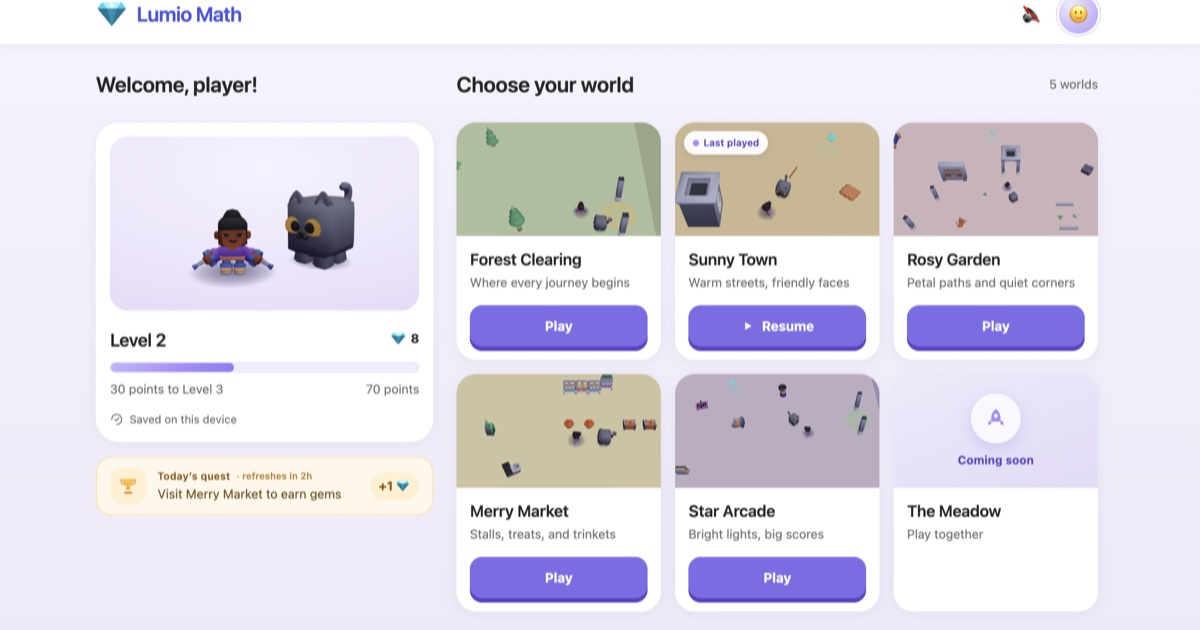
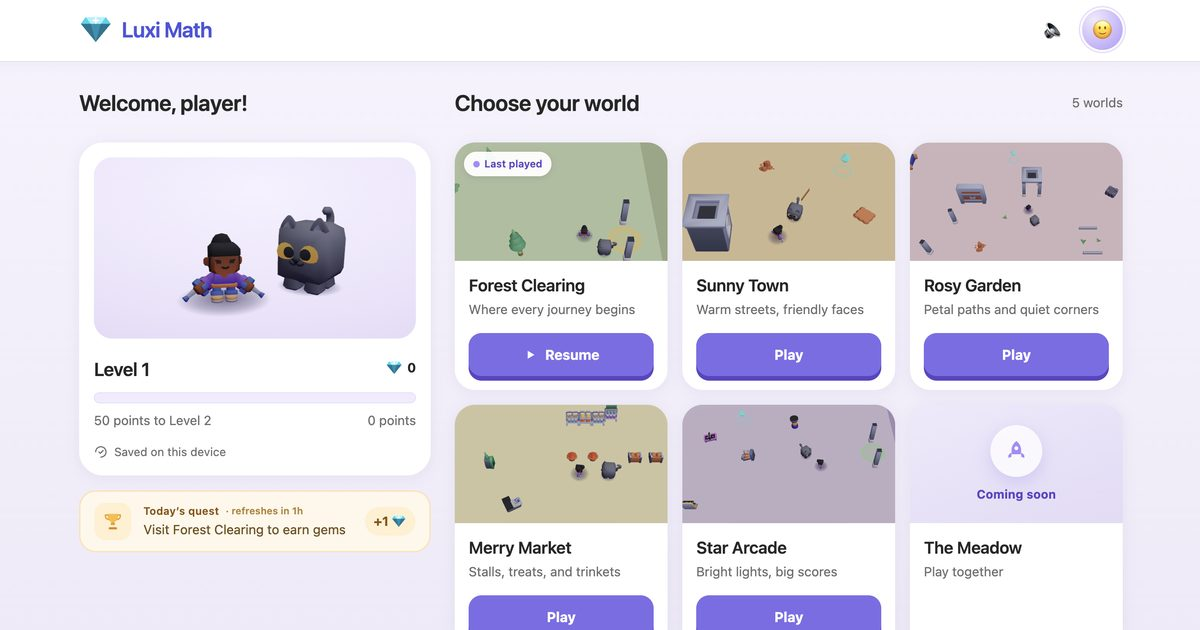
rebrand: "Lumio Math" -> "Luxi Math" (trademark collision on "Lumio")
Amy + Finn found "Lumio" is trademarked, caught before the IG marketing push.
Changed only the VISIBLE product name, everywhere it appears:
- index.html <title> + Open Graph/Twitter meta (the SEO/social name Google + IG show)
- the Door wordmark (src/ui/Door.jsx) + a couple of Door/HeroStage comments
- the old-Pages redirect page copy (deploy.yml) + the robots.txt header
- public/og.jpg re-made from the renamed door (Amy's screenshot; top-anchored
  1200x630 crop so the "Luxi Math" logo stays in frame)

Deliberately NOT changed (Amy's call this session):
- the domain lumio.land / math.lumio.land STAYS for now; a domain migration is a
  separate, staged decision (checked luxi availability, redirect, magic-link, etc.)
- the internal localStorage key 'lumio.account' is untouched -- it's invisible,
  and renaming it would make already-signed-in devices (Ivy's iPad) forget they
  signed in, re-breaking today's magic-link fix (3cce96f).

Follow-up: re-request indexing in Google Search Console so the result title
refreshes Lumio -> Luxi (domain unchanged, so the property is the same).

diff --git a/index.html b/index.html
@@ -5,7 +5,7 @@
     <meta name="viewport" content="width=device-width, initial-scale=1.0, maximum-scale=1.0, user-scalable=no, viewport-fit=cover" />
     <link rel="icon" type="image/svg+xml" href="/favicon.svg" />
 
-    <title>Lumio Math</title>
+    <title>Luxi Math</title>
     <meta
       name="description"
       content="Explore five worlds with your companion, solve math to earn gems, and spend them to build a world of your own."
@@ -13,10 +13,10 @@
 
     <!-- Open Graph — the link-preview card on IG / messaging / social. og:image
          MUST be an absolute URL; scrapers don't resolve relative paths. The
-         image (public/og.jpg) is a 1200x630 crop of the Lumio Math door. -->
+         image (public/og.jpg) is a 1200x630 crop of the Luxi Math door. -->
     <meta property="og:type" content="website" />
-    <meta property="og:site_name" content="Lumio Math" />
-    <meta property="og:title" content="Lumio Math" />
+    <meta property="og:site_name" content="Luxi Math" />
+    <meta property="og:title" content="Luxi Math" />
     <meta
       property="og:description"
       content="Explore five worlds with your companion, solve math to earn gems, and spend them to build a world of your own."
@@ -27,12 +27,12 @@
     <meta property="og:image:height" content="630" />
     <meta
       property="og:image:alt"
-      content="Lumio Math — a character and cat beside a menu of five colorful worlds to explore."
+      content="Luxi Math — a character and cat beside a menu of five colorful worlds to explore."
     />
 
     <!-- Large-image card for X and other scrapers that read twitter:* tags. -->
     <meta name="twitter:card" content="summary_large_image" />
-    <meta name="twitter:title" content="Lumio Math" />
+    <meta name="twitter:title" content="Luxi Math" />
     <meta
       name="twitter:description"
       content="Explore five worlds with your companion, solve math to earn gems, and spend them to build a world of your own."

diff --git a/src/ui/Door.jsx b/src/ui/Door.jsx
@@ -1,5 +1,5 @@
 /*
- * Door.jsx — the hub a player lands on before a world (Lumio Math).
+ * Door.jsx — the hub a player lands on before a world (Luxi Math).
  * Lifted 1:1 from Oscar's `math-door-flow.html` (delivery — math door, 2026-07-31),
  * drawn to Nathan's door-data-contract. Left = who they are + how far they've
  * climbed; right = Choose your world.
@@ -245,7 +245,7 @@ function Header({ sound, setSound }) {
   return (
     <header className="doorHdr">
       <div className="doorHdrIn">
-        <div style={hS.brand}><span style={hS.mark}><GemIcon size={36} /></span><span style={hS.word}>Lumio Math</span></div>
+        <div style={hS.brand}><span style={hS.mark}><GemIcon size={36} /></span><span style={hS.word}>Luxi Math</span></div>
         <div style={hS.right}>
           <button style={hS.round} onClick={() => setSound(!sound)} title={sound ? 'Sound on' : 'Sound off'} aria-label="Toggle sound">{sound ? '🔈' : '🔇'}</button>
           {/* Profile — the affordance settings lives inside later; soft avatar for now */}

diff --git a/src/ui/HeroStage.jsx b/src/ui/HeroStage.jsx
@@ -6,7 +6,7 @@
  * ONE build for everyone (Amy, 2026-07-31): this is always character-female-a +
  * animal-cat — the game's default avatar — not a per-account render. When a real
  * avatar picker lands, this reads the chosen ids; until then it's the one face of
- * Lumio Math. Models + animations are the SAME assets the world uses (already
+ * Luxi Math. Models + animations are the SAME assets the world uses (already
  * preloaded there), so it paints instantly and can never drift from in-game.
  */
 import { Suspense, useEffect, useMemo, useRef } from 'react'
